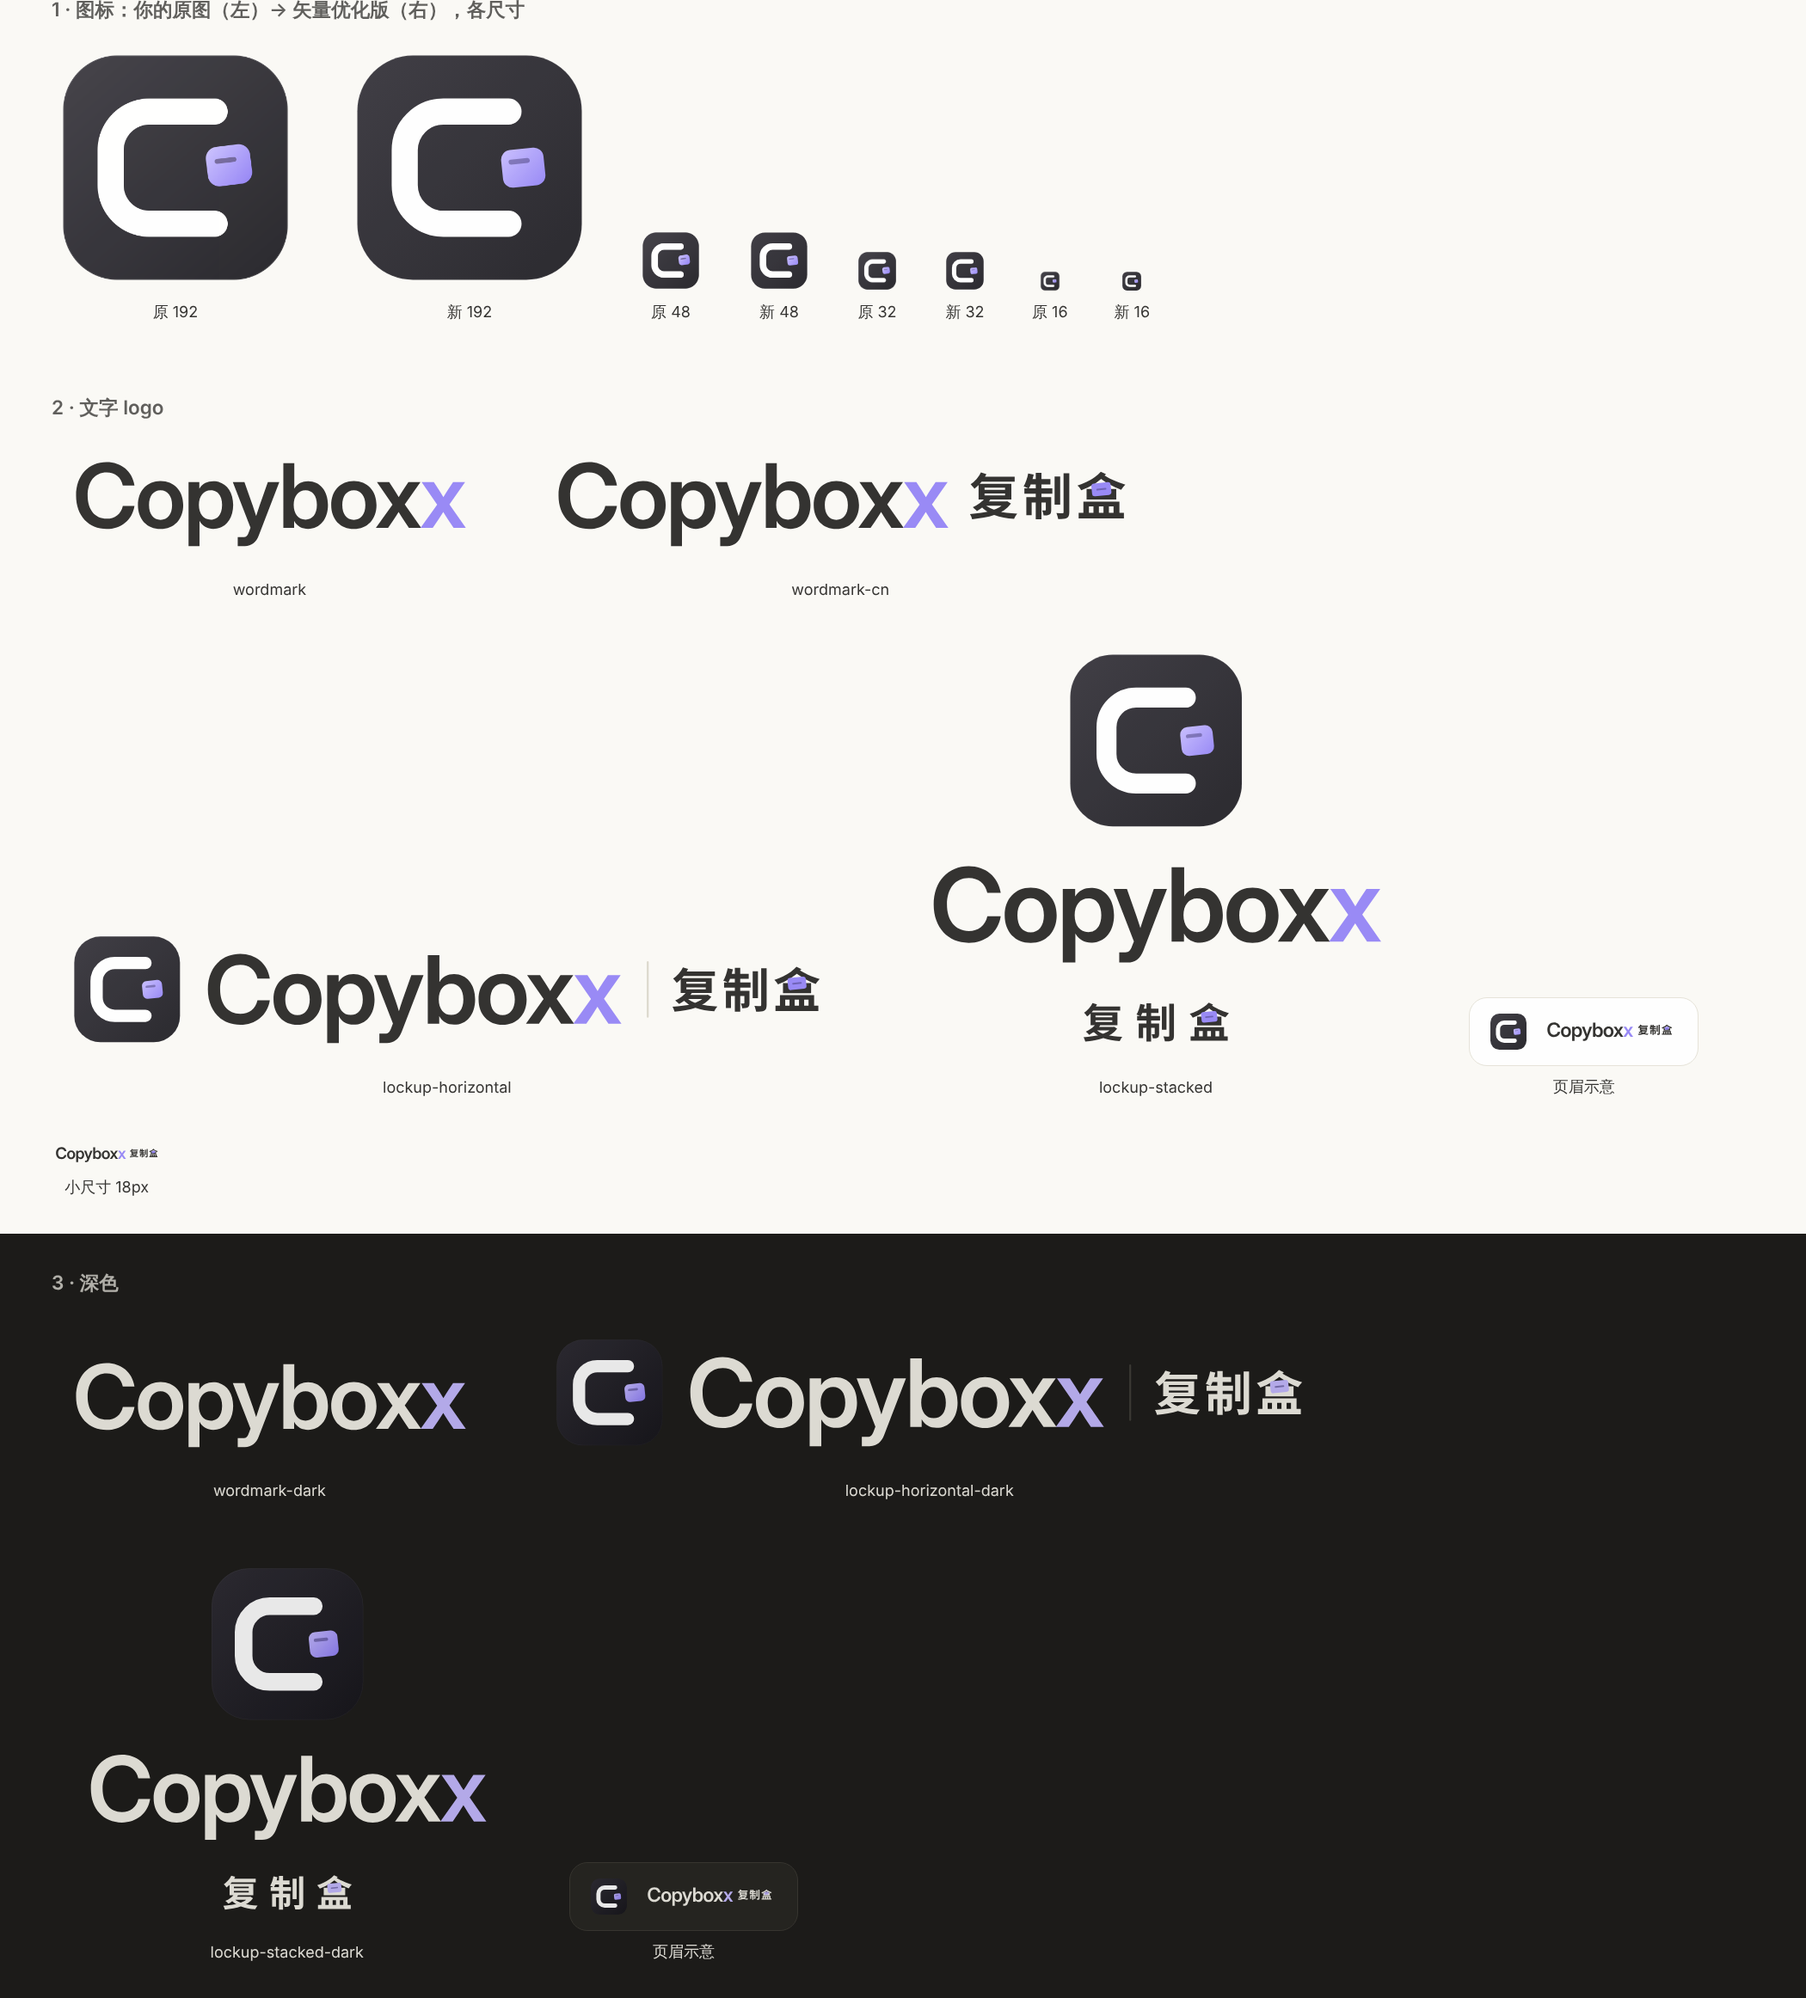
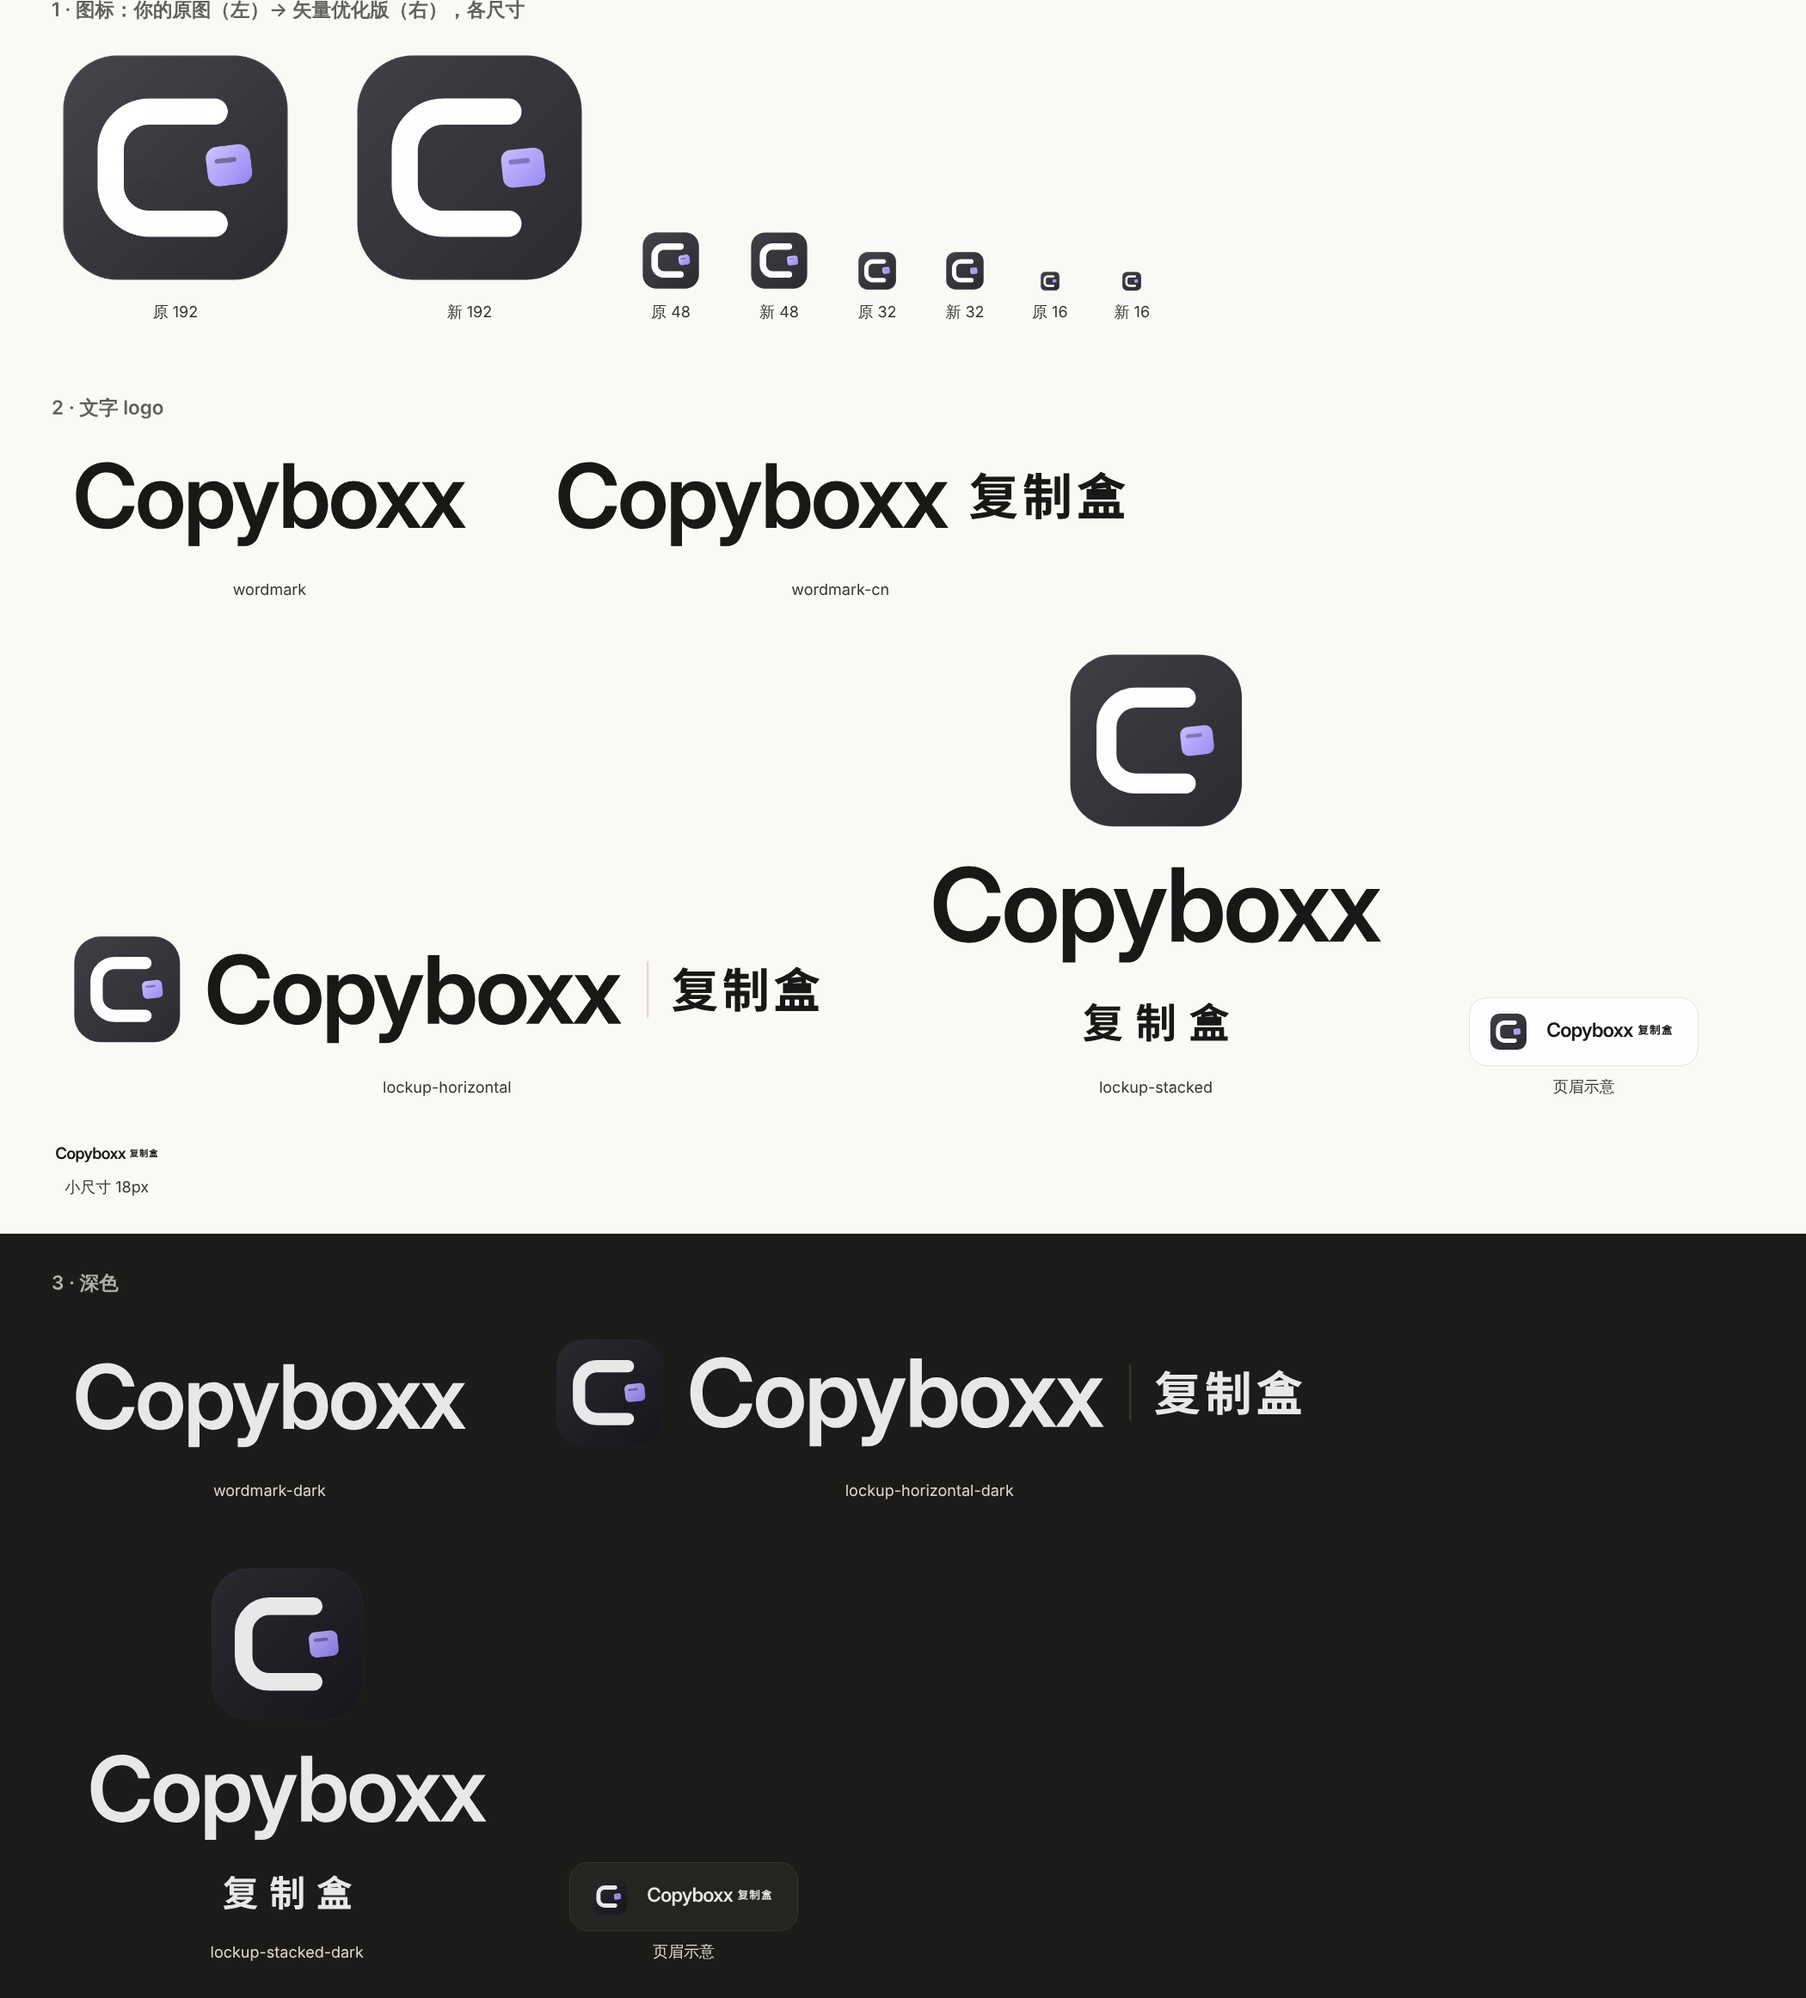
brand: wordmark text in pure black only; card in 盒 knocked out, mono files dropped
Claude-Session: https://claude.ai/code/session_017WszKXZTp2VDK81tXgEMLn

diff --git a/tools/brand/build-logo.py b/tools/brand/build-logo.py
@@ -18,7 +18,7 @@ from fontTools.pens.transformPen import TransformPen
 # Palette (from the existing icon and app/globals.css)
 LAVENDER = "#c4b9ff"   # accent letter on dark (= icon item, light end)
 VIOLET = "#8f7ff6"     # accent letter on light (= icon item, dark end)
-INK = "#1f1e1c"; INK_DARK = "#f1efe7"
+INK = "#000000"; INK_DARK = "#ffffff"   # text is pure black (owner), pure white on dark
 LINE = "#d9d5c9"; LINE_DARK = "#3f3d37"
 MUTED = "#55534d"; MUTED_DARK = "#b3b0a4"
 
@@ -50,7 +50,7 @@ NAME = "Copyboxx"; TRACK = -0.025   # mixed case, tight
 DESC = 494 / 2048                  # Inter descender (p, y)
 
 def wordmark(inter, size, dx, dy, ink, accent):
-    """The wordmark with the last X in the accent colour. Returns (svg, width)."""
+    """The wordmark; `accent` colours the last x (currently the same as ink: text is one colour). Returns (svg, width)."""
     g, w = inter.shape(NAME, size, tracking=TRACK)
     return paths(g[:-1], dx, dy, ink) + paths(g[-1:], dx, dy, accent), w
 
@@ -77,6 +77,12 @@ def _contours(face, ch, size):
             out.append((pen.getCommands(), (min(xs), min(ys), max(xs), max(ys)))); cur = []
     return out, face.gs[name].width * k
 
+def rrect(x, y, w, h, r):
+    """Rounded rectangle as a path (so it can be combined with a knockout)."""
+    return (f"M{x + r:.2f} {y:.2f}H{x + w - r:.2f}A{r:.2f} {r:.2f} 0 0 1 {x + w:.2f} {y + r:.2f}V{y + h - r:.2f}"
+            f"A{r:.2f} {r:.2f} 0 0 1 {x + w - r:.2f} {y + h:.2f}H{x + r:.2f}A{r:.2f} {r:.2f} 0 0 1 {x:.2f} {y + h - r:.2f}"
+            f"V{y + r:.2f}A{r:.2f} {r:.2f} 0 0 1 {x + r:.2f} {y:.2f}Z")
+
 def cn(noto, text, size, dx, dy, color, tracking=CN_TRACK, purple=None):
     """复制盒 in Noto Sans SC Bold. The 口 inside 盒 becomes the icon's tilted purple card (the thing in the
     box), so the Chinese carries the same idea as the mark. Returns (svg, width)."""
@@ -91,8 +97,8 @@ def cn(noto, text, size, dx, dy, color, tracking=CN_TRACK, purple=None):
         parts.append(f'<path fill="{color}" transform="translate({x:.2f} {dy:.2f})" d="{"".join(keep)}"/>')
         if box:
             x0, y0, x1, y1 = box; w = x1 - x0; h = y1 - y0; cx = x + (x0 + x1) / 2; cy = dy - (y0 + y1) / 2
-            parts.append(f'<g transform="rotate(-6 {cx:.2f} {cy:.2f})"><rect x="{x + x0:.2f}" y="{dy - y1:.2f}" width="{w:.2f}" height="{h:.2f}" rx="{0.22 * h:.2f}" fill="{purple}"/>'
-                         f'<rect x="{cx - 0.26 * w:.2f}" y="{cy - 0.07 * h:.2f}" width="{0.52 * w:.2f}" height="{0.14 * h:.2f}" rx="{0.07 * h:.2f}" fill="{DASH}"/></g>')
+            card = rrect(x + x0, dy - y1, w, h, 0.22 * h) + rrect(cx - 0.26 * w, cy - 0.07 * h, 0.52 * w, 0.14 * h, 0.07 * h)
+            parts.append(f'<path transform="rotate(-6 {cx:.2f} {cy:.2f})" d="{card}" fill="{purple}" fill-rule="evenodd"/>')
         x += adv + tracking * size
     return "".join(parts), x - dx - tracking * size
 
@@ -129,8 +135,8 @@ def build(inter, noto, out):
     write("icon.svg", svg(1024, 1024, mark(0, 0, 928, with_tile=True)))
     write("icon-mark.svg", svg(928, 928, mark(0, 0, 928)))
 
-    for theme, ink, accent, line, muted, bg in (("light", INK, VIOLET, LINE, MUTED, None),
-                                               ("dark", INK_DARK, LAVENDER, LINE_DARK, MUTED_DARK, None)):
+    for theme, ink, accent, line, muted, bg in (("light", INK, INK, LINE, MUTED, None),        # text: one colour only
+                                               ("dark", INK_DARK, INK_DARK, LINE_DARK, MUTED_DARK, None)):
         sfx = "" if theme == "light" else "-dark"
         pad = 24; size = 100; cap = CAP * size; desc = DESC * size
         H = cap + desc + 2 * pad   # room for the descenders of p and y
@@ -138,16 +144,12 @@ def build(inter, noto, out):
         # 2. Wordmark alone.
         wm, w = wordmark(inter, size, pad, pad + cap, ink, accent)
         write(f"wordmark{sfx}.svg", svg(w + 2 * pad, H, wm))
-        wm_mono, _ = wordmark(inter, size, pad, pad + cap, ink, ink)   # single colour (print, stamps)
-        write(f"wordmark-mono{sfx}.svg", svg(w + 2 * pad, H, wm_mono))
 
         # 3. Wordmark with Chinese: Copyboxx 复制盒 (one line, for a page header).
         cn_size = 56; gap = 22
         cn_base = pad + cap - cap / 2 + CN_MID * cn_size
         c, cw = cn(noto, "复制盒", cn_size, pad + w + gap, cn_base, ink, purple=accent)
         write(f"wordmark-cn{sfx}.svg", svg(w + gap + cw + 2 * pad, H, wm + c))
-        c_mono, _ = cn(noto, "复制盒", cn_size, pad + w + gap, cn_base, ink, purple=ink)
-        write(f"wordmark-cn-mono{sfx}.svg", svg(w + gap + cw + 2 * pad, H, wm_mono + c_mono))
 
         # 4. Horizontal lockup: mark + Copyboxx | 复制盒.
         mh = 112; mid = pad + mh / 2

diff --git a/docs/brand/README.md b/docs/brand/README.md
@@ -10,10 +10,8 @@
 | --- | --- |
 | `icon.svg` | 应用图标源文件（1024，方块外透明）。`src-tauri/icons/` 里的 png / ico / icns 由它导出 |
 | `icon-mark.svg` | 同一个图标，画布紧贴方块（928），放在文字旁边或界面里用 |
-| `wordmark.svg` / `wordmark-dark.svg` | 文字 logo「Copyboxx」，最后一个 x 用紫色（浅色底 / 深色底） |
-| `wordmark-mono.svg` / `wordmark-mono-dark.svg` | 单色版，印刷、水印用 |
-| `wordmark-cn.svg` / `wordmark-cn-dark.svg` | 「Copyboxx 复制盒」一行，页眉、关于页用；盒里的卡片是紫色 |
-| `wordmark-cn-mono.svg` / `-mono-dark.svg` | 同上单色版 |
+| `wordmark.svg` / `wordmark-dark.svg` | 文字 logo「Copyboxx」，纯黑（浅色底）/ 纯白（深色底） |
+| `wordmark-cn.svg` / `wordmark-cn-dark.svg` | 「Copyboxx 复制盒」一行，页眉、关于页用 |
 | `lockup-horizontal.svg` / `-dark.svg` | 图标 + Copyboxx ｜ 复制盒，横排，官网页眉、文档页眉用 |
 | `lockup-stacked.svg` / `-dark.svg` | 图标在上、文字在下，启动页、分享图、海报用 |
 | `preview.png` | 以上全部的总览图 |
@@ -21,10 +19,9 @@
 ## 设计说明
 
 - 字体：Latin 用 Inter Display SemiBold 大小写「Copyboxx」，字距 −2.5%；中文用 Noto Sans SC Bold，字距 +8%。文字已转轮廓，改字要重新生成。
-- 中文的设计：「盒」字中间的「口」删掉，换成图标里的紫卡片（圆角、逆时针 6°、一道文字线），大小正好填在「口」的位置，
-  22px 以下仍能认出是「盒」。单色版里卡片用墨色。
-- 颜色：墨色 `#1f1e1c`（深色底 `#f1efe7`）；强调色取图标紫卡片的两端 `#8f7ff6`（浅色底）/ `#c4b9ff`（深色底）；中文用次要色 `#55534d` / `#b3b0a4`。
-- 「Copyboxx」里只有最后一个 x 变色：两个 x 是名字的记忆点，变色让它看起来是故意的，并和图标里的紫卡片呼应。
+- 中文的设计：「盒」字中间的「口」删掉，换成图标里那张卡片的形状（圆角、逆时针 6°、一道镂空的文字线），大小正好填在「口」的位置，
+  22px 以下仍能认出是「盒」。
+- 颜色：文字只用纯黑 `#000000`（深色底上纯白 `#ffffff`），没有第二种颜色；紫色只出现在图标里。卡片上的文字线是镂空的，放在任何底色上都对。
 - 图标（1024 画布）：方块 48–976、圆角 230，渐变 `#2d2b33`→`#16151b`，边上一圈 7% 白色细线；C 线宽 108、端头圆，外圆角 214；
   紫卡片 176×156、圆角 40、逆时针转 6°，渐变 `#c4b9ff`→`#8f7ff6`，文字线 88×20。
 - 相对原图的优化：改成矢量（任何尺寸都清晰）；紫卡片的中心对齐到 C 的中线；圆角、倾斜角度取整；方块加了一圈极淡的边线，

diff --git a/docs/log/2026-10-13-brand-logo.md b/docs/log/2026-10-13-brand-logo.md
@@ -1,7 +1,7 @@
 # Brand files: owner's C icon as vector, Copyboxx / 复制盒 wordmark
 
 - Date: 2026-10-13 · Thread/agent: 【品牌】logo 与文字标
-- What changed: New `docs/brand/` with the app icon as SVG, traced from the owner's 1024 px original (dark gradient squircle, white sideways U — the C of Copyboxx / an open box — with a tilted purple card in its mouth; the lock icon that shipped since the Electron days was a placeholder; the squircle's outside is transparent, no cream tile), a new wordmark「Copyboxx」(Inter Display SemiBold, last x in the card's purple) and「复制盒」(Noto Sans SC Bold; the 口 inside 盒 replaced by the icon's tilted purple card), 「Copyboxx 复制盒」, horizontal and stacked lockups, each light/dark plus a mono wordmark, all text as outlines; README and preview.png. `src-tauri/icons/icon.png`, `icon.ico`, `icon.icns` re-exported from the SVG (same sizes and ICNS slots as before). Generators in `tools/brand/` (build-logo.py, export-icons.py); fonts not committed.
+- What changed: New `docs/brand/` with the app icon as SVG, traced from the owner's 1024 px original (dark gradient squircle, white sideways U — the C of Copyboxx / an open box — with a tilted purple card in its mouth; the lock icon that shipped since the Electron days was a placeholder; the squircle's outside is transparent, no cream tile), a new wordmark「Copyboxx」(Inter Display SemiBold) and「复制盒」(Noto Sans SC Bold; the 口 inside 盒 replaced by the icon's tilted card with a knocked-out text line), all text pure black (pure white on dark), 「Copyboxx 复制盒」, horizontal and stacked lockups, each light/dark, all text as outlines; README and preview.png. `src-tauri/icons/icon.png`, `icon.ico`, `icon.icns` re-exported from the SVG (same sizes and ICNS slots as before). Generators in `tools/brand/` (build-logo.py, export-icons.py); fonts not committed.
 - User-visible change: 应用图标换成老板的 C 形图标（矢量优化版）；新增 Copyboxx / 复制盒 文字 logo 文件
 - Not done / risks: The wordmark says Copyboxx while the product name in the app, window title and tray is still Clipboxx (D-044) — renaming the product is a separate decision. The wordmark is not yet used inside the app. ICNS is written by our own script, not `tauri icon`; check the Dock icon on a Mac build.
 - Next step: Owner decides whether the product name follows the logo (Clipboxx → Copyboxx); then use `wordmark-cn.svg` in the settings header.
